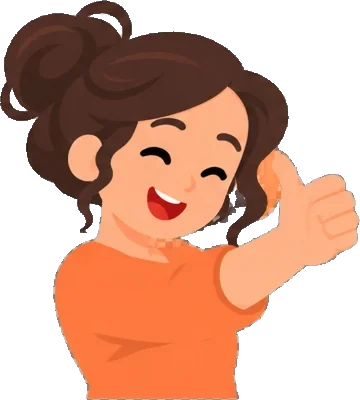
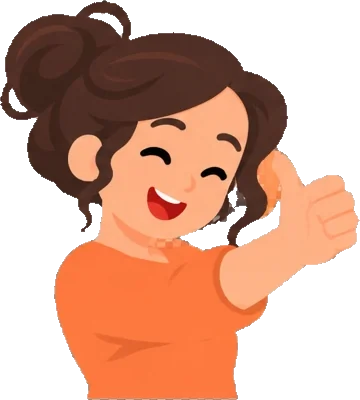
Tutorial: clean the guide's edges properly
The listening frames still showed a pale outline: the outermost pixel all
round was half art, half checkerboard grey, and grey checkerboard was
left trapped inside hair curls. Both are removed now, without touching
the text in the speech bubbles. The same edge clean-up is applied to
every other guide cut from a painted checkerboard (peek, point, phone,
cheer, avatar).

diff --git a/components/tutorial/guide-character.tsx b/components/tutorial/guide-character.tsx
@@ -124,10 +124,10 @@ export const CARD_GUIDES = {
   listen: {
     kind: 'poses', name: 'listen', side: 'right',
     frames: [
-      { x: 0, cut: 414, w: 359, h: 416 }, { x: 2, cut: 406, w: 360, h: 407 },
-      { x: 3, cut: 426, w: 383, h: 427 }, { x: -6, cut: 441, w: 387, h: 443 },
-      { x: 2, cut: 406, w: 347, h: 407 }, { x: -7, cut: 401, w: 402, h: 403 },
-      { x: -20, cut: 391, w: 409, h: 402 }, { x: 12, cut: 365, w: 349, h: 367 },
+      { x: 0, cut: 412, w: 357, h: 414 }, { x: 4, cut: 404, w: 357, h: 405 },
+      { x: 3, cut: 424, w: 381, h: 425 }, { x: -5, cut: 439, w: 384, h: 441 },
+      { x: 3, cut: 404, w: 345, h: 405 }, { x: -7, cut: 399, w: 400, h: 401 },
+      { x: -23, cut: 388, w: 407, h: 399 }, { x: 8, cut: 362, w: 347, h: 364 },
     ],
     intro: [[1, 1300]],
     loop: [[2, 1100], [3, 1000], [4, 1100], [5, 1100], [6, 1000], [7, 1400], [8, 1300], [1, 1300]],
